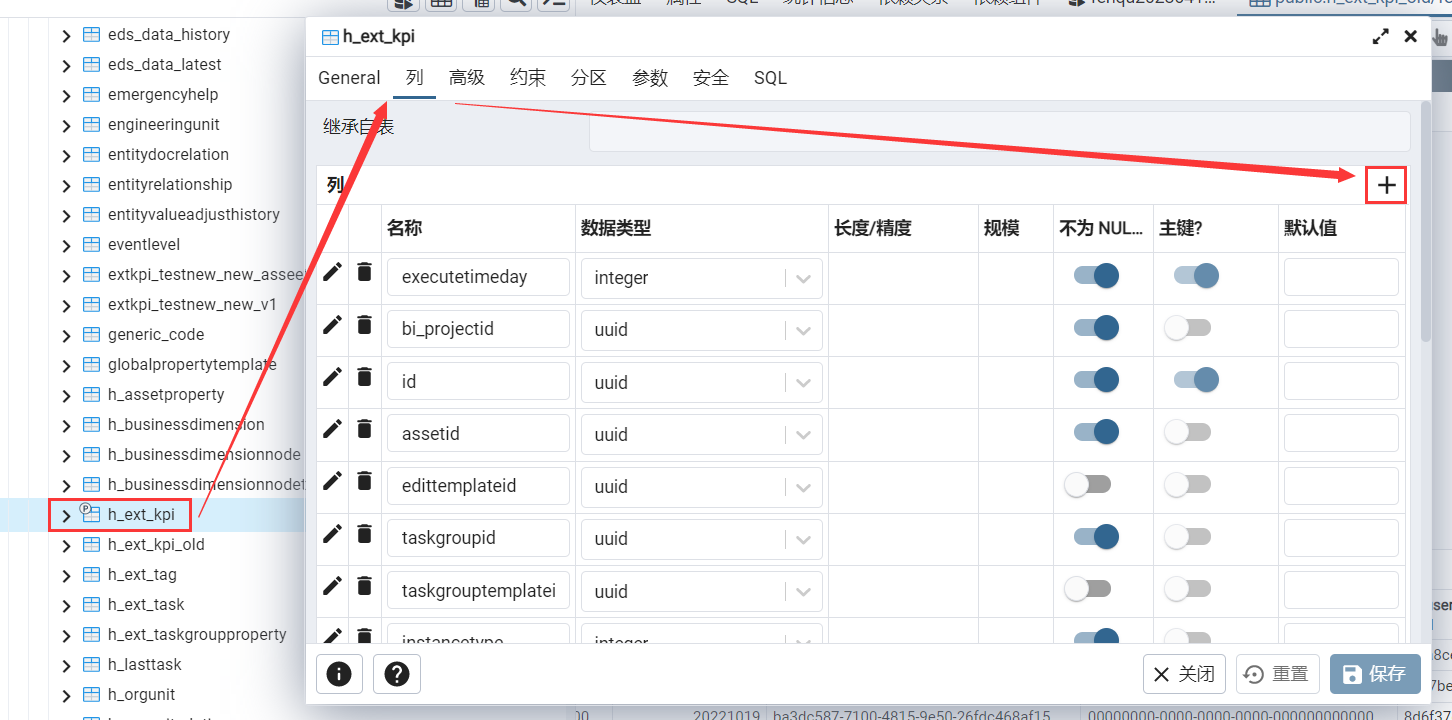
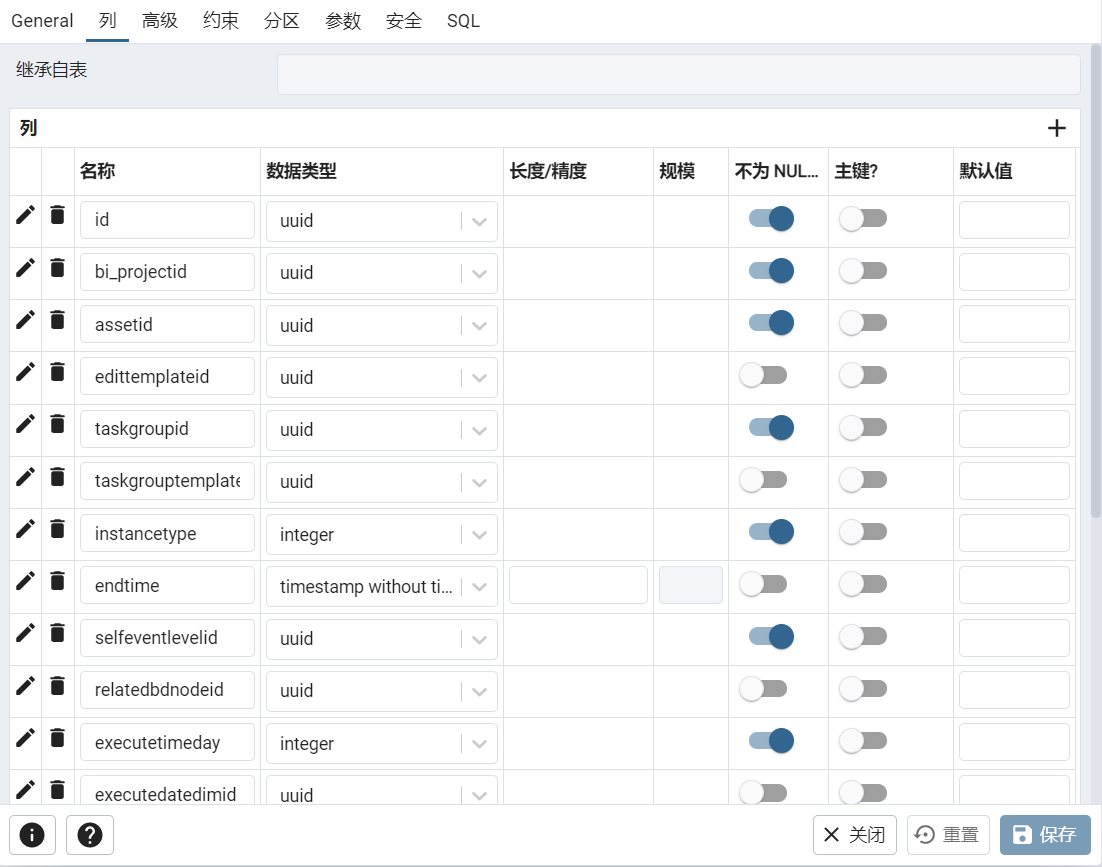
修改数据库分区和性能优化

diff --git a/docs/系统维护指南/数据库分区和性能优化.md b/docs/系统维护指南/数据库分区和性能优化.md
@@ -324,21 +324,38 @@ order by pg_relation_size(relid) desc;
 
 ### 创建父表
 
-* 创建父表的语句如下：
-
-```
-CREATE TABLE h_ext_kpi (
-    executetimeday       int
-) PARTITION BY RANGE (executetimeday);
-```
-
-* 这里语句的意思是，创建一个分区表名为h_ext_kpi，其中新增一列名称为executetimeday，类型是int。并按照范围分区，将executetimeday设置为分区键。
-
-* 创建出来之后，h_ext_kpi表中只有一列executetimeday。这时要到已经改名为h_ext_kpi_old的表中查看所有列的名称和类型等信息。
+* 首先，选中旧表-脚本-CREATE脚本，可以看到创建此表的脚本
 
   <img alt=" " src={useBaseUrl('docimg/pg分区表4205.png')} />
 
-* 然后去新创建出的表中把缺少的列都增加进来。当然，也可以在创建语句中就把这些列给加进去，类型可以之后再编辑。
+* 稍做修改，将最后面创建约束的句子删掉，改为按照范围分区，将executetimeday设置为分区键。修改完之后创建父表的语句如下：
+
+```
+CREATE TABLE h_ext_kpi (
+    id uuid NOT NULL,
+    bi_projectid uuid NOT NULL,
+    assetid uuid NOT NULL,
+    edittemplateid uuid,
+    taskgroupid uuid NOT NULL,
+    taskgrouptemplateid uuid,
+    instancetype integer NOT NULL,
+    endtime timestamp without time zone,
+    selfeventlevelid uuid NOT NULL,
+    relatedbdnodeid uuid,
+    executetimeday integer NOT NULL,
+    executedatedimid uuid,
+    kpiusershiftid uuid,
+    kpiuserorgunitid uuid,
+    plantaskitemcount integer,
+    requiredtaskitemcount integer,
+    finishedofrequiredtaskitemcount integer,
+    finishedofunrequiredtaskitemcount integer,
+    bi_name character varying(128) COLLATE pg_catalog."default",
+    kpiuserid uuid
+) PARTITION BY RANGE (executetimeday);
+```
+
+* 这里语句的意思是，创建一个分区表名为h_ext_kpi，其中的列全部按照旧表创建。并按照范围分区，将executetimeday设置为分区键。创建完成后，查看所有列除了主键配置外，其余是否都与旧表一致。
 
   <img alt=" " src={useBaseUrl('docimg/pg分区表4206.png')} />
 
